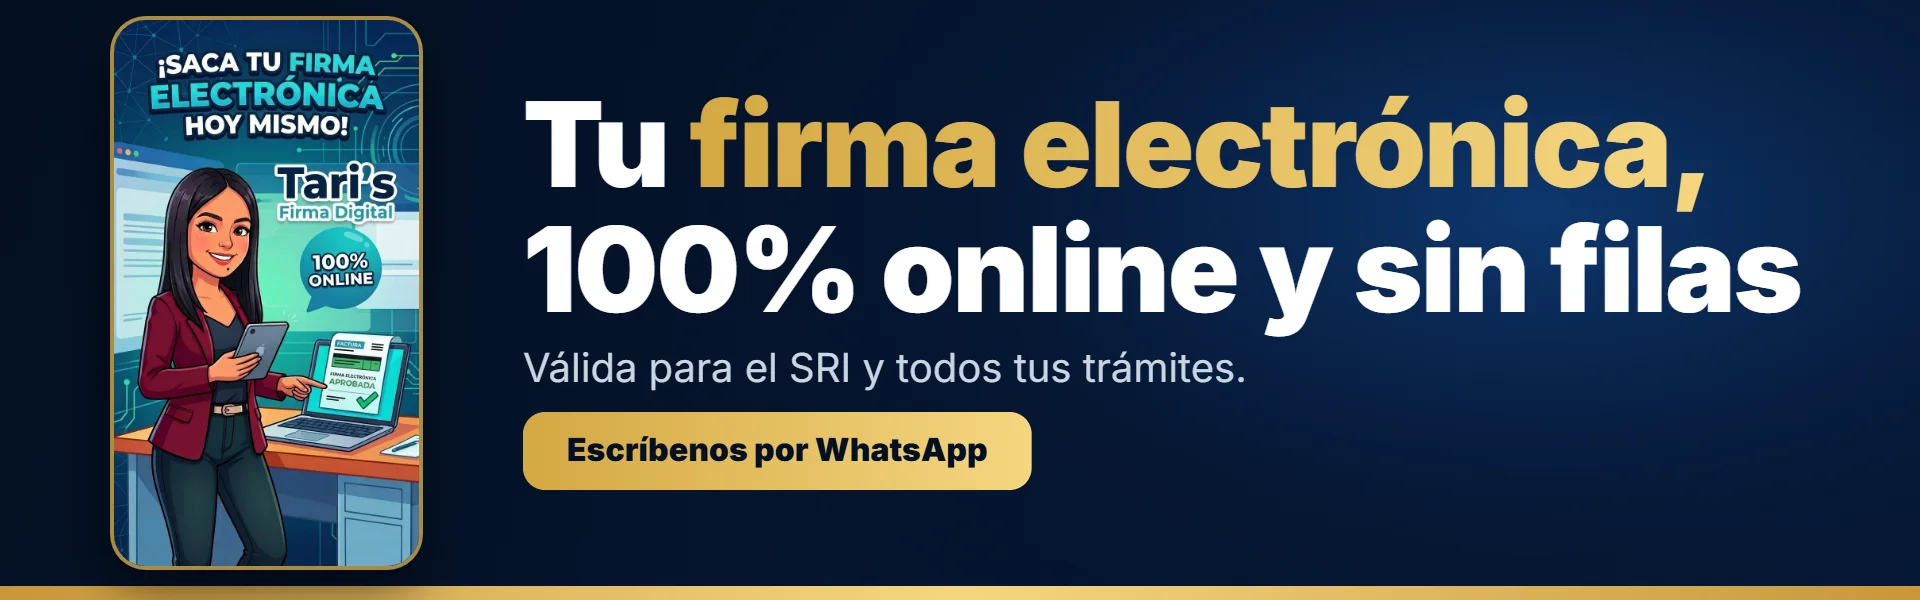
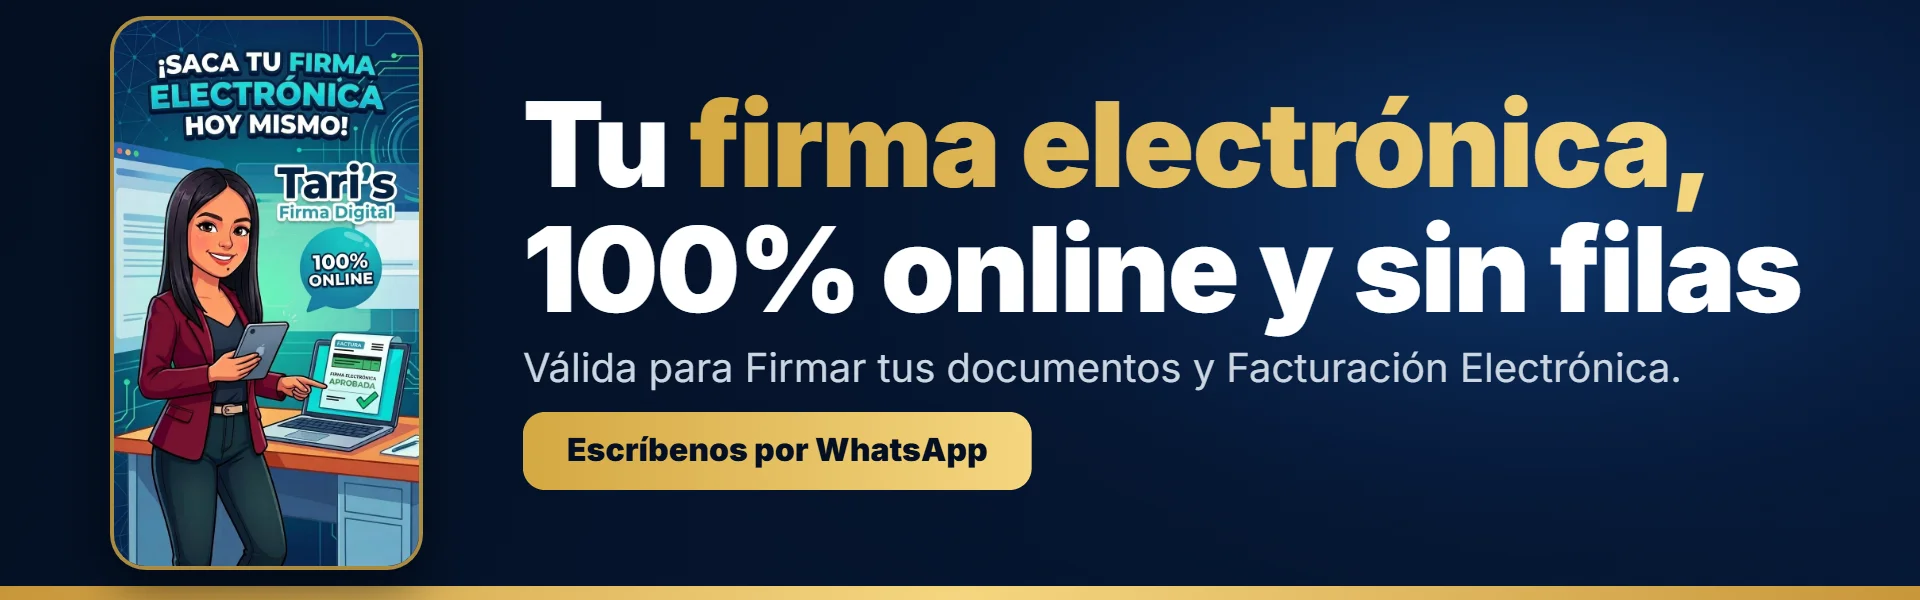
fix: change flyer subtitle to "Válida para Firmar tus documentos y Facturación Electrónica."
Regenerate the desktop banner with the new subtitle instead of the
claim about the SRI, and keep the alt text in script.js and the
no-JavaScript fallback in index.html in sync with it.

Changed region(s): [[0.375, 0.57, 0.875, 0.66]]

diff --git a/index.html b/index.html
@@ -162,7 +162,7 @@
             <div role="group" aria-roledescription="diapositiva" aria-label="1 de 1" class="[grid-area:1/1] min-w-0">
                 <picture>
                     <source media="(max-width: 640px)" srcset="img/flyers/firma-hoy-mismo-movil.webp">
-                    <img src="img/flyers/firma-hoy-mismo.webp" alt="Tu firma electrónica, 100% online y sin filas. Válida para el SRI y todos tus trámites. Tari’s Firma Digital."
+                    <img src="img/flyers/firma-hoy-mismo.webp" alt="Tu firma electrónica, 100% online y sin filas. Válida para firmar tus documentos y Facturación Electrónica. Tari’s Firma Digital."
                          width="1920" height="600" fetchpriority="high" class="block w-full h-auto">
                 </picture>
             </div>

diff --git a/script.js b/script.js
@@ -107,7 +107,7 @@ const siteData = {
             tipo: 'informativo',
             imagen: 'img/flyers/firma-hoy-mismo.webp',
             imagenMovil: 'img/flyers/firma-hoy-mismo-movil.webp',
-            alt: 'Tu firma electrónica, 100% online y sin filas. Válida para el SRI y todos tus trámites. Tari’s Firma Digital.',
+            alt: 'Tu firma electrónica, 100% online y sin filas. Válida para firmar tus documentos y Facturación Electrónica. Tari’s Firma Digital.',
             destino: { tipo: 'contacto', mensaje: 'Quiero sacar mi firma electrónica hoy mismo' }
         },
         {
